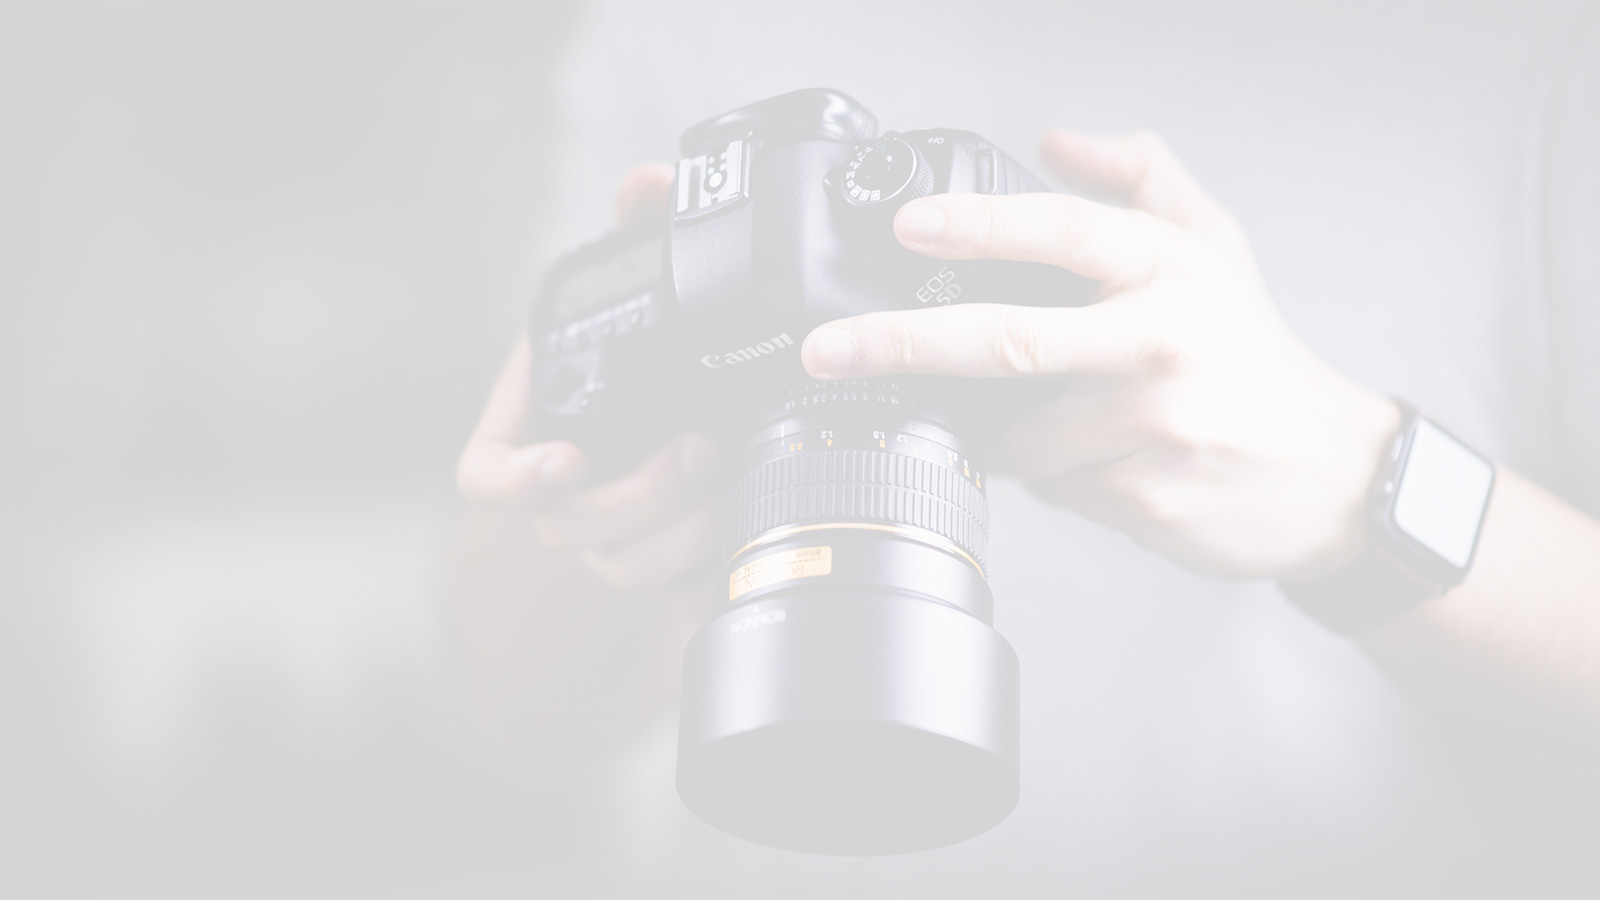
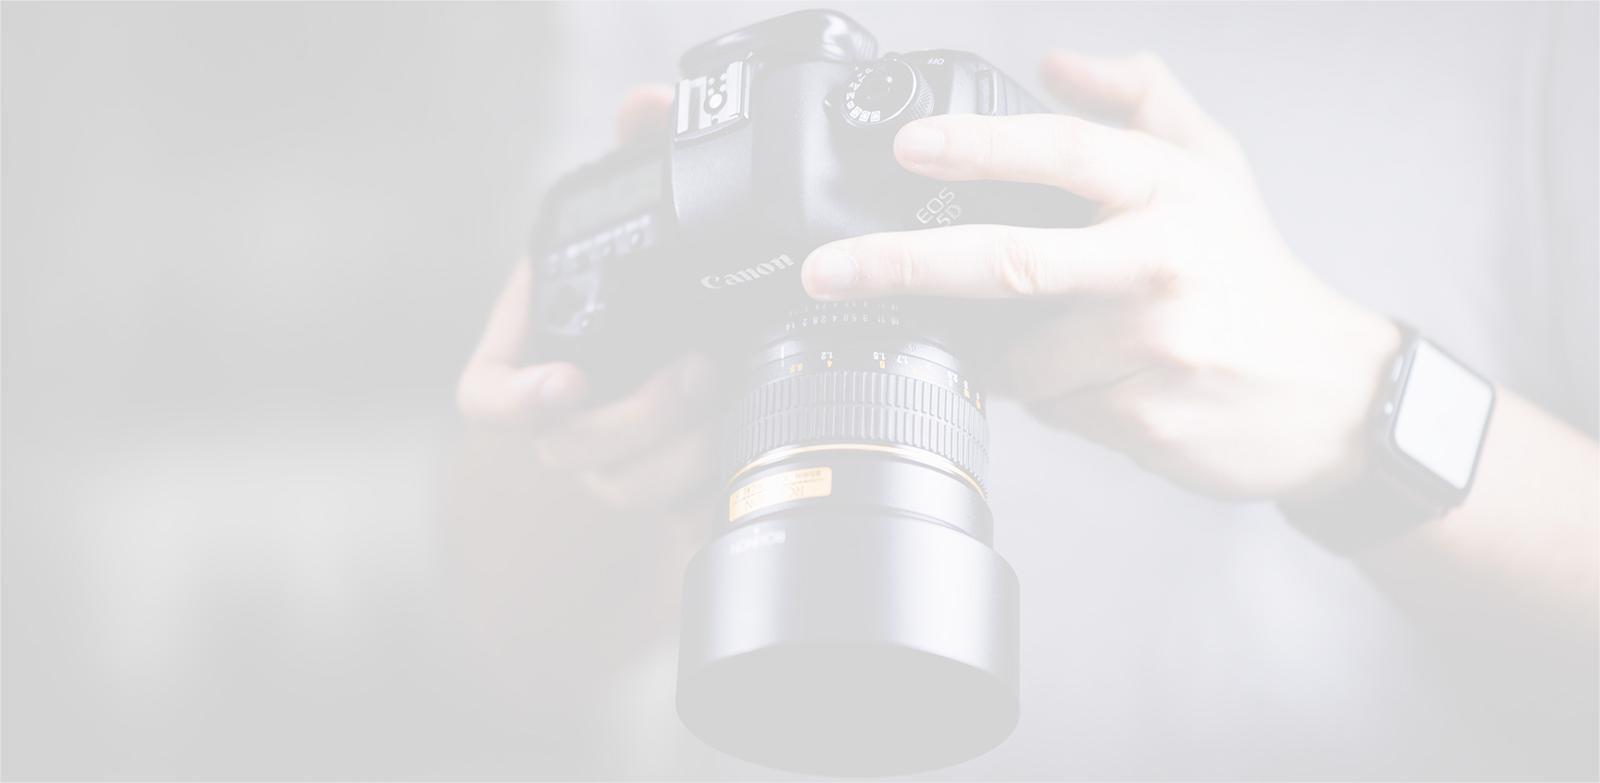
.

diff --git a/main.html b/main.html
@@ -17,6 +17,15 @@
                 <img src="image/logo.png" alt="logo">
             </a>
         </div>
+           
+         &nbsp;&nbsp;&nbsp;&nbsp;&nbsp;&nbsp;&nbsp;&nbsp;&nbsp;
+        
+        <div id="title">
+            <h2>LIGHT STUDIO</h2> <br>
+            <p>Photographie</p>
+        </div>
+
+        
         &nbsp;&nbsp;&nbsp;&nbsp;&nbsp;&nbsp;&nbsp;&nbsp;&nbsp;&nbsp;&nbsp;&nbsp;&nbsp;&nbsp;&nbsp;&nbsp;
         &nbsp;&nbsp;&nbsp;&nbsp;&nbsp;&nbsp;&nbsp;&nbsp;&nbsp;&nbsp;&nbsp;&nbsp;&nbsp;&nbsp;&nbsp;&nbsp;
         &nbsp;&nbsp;&nbsp;&nbsp;&nbsp;&nbsp;&nbsp;&nbsp;&nbsp;&nbsp;&nbsp;&nbsp;&nbsp;&nbsp;&nbsp;&nbsp;
@@ -27,37 +36,44 @@
         &nbsp;&nbsp;&nbsp;&nbsp;&nbsp;&nbsp;&nbsp;&nbsp;&nbsp;&nbsp;&nbsp;&nbsp;&nbsp;&nbsp;&nbsp;&nbsp;
         &nbsp;&nbsp;&nbsp;&nbsp;&nbsp;&nbsp;&nbsp;&nbsp;&nbsp;&nbsp;&nbsp;&nbsp;&nbsp;&nbsp;&nbsp;&nbsp;
         &nbsp;&nbsp;&nbsp;&nbsp;&nbsp;&nbsp;&nbsp;&nbsp;&nbsp;&nbsp;&nbsp;&nbsp;&nbsp;&nbsp;&nbsp;&nbsp;
-        &nbsp;&nbsp;&nbsp;&nbsp;&nbsp;&nbsp;&nbsp;&nbsp;&nbsp;&nbsp;&nbsp;&nbsp;&nbsp;&nbsp;&nbsp;&nbsp;
-        &nbsp;&nbsp;&nbsp;&nbsp;&nbsp;&nbsp;&nbsp;&nbsp;&nbsp;&nbsp;&nbsp;&nbsp;&nbsp;&nbsp;&nbsp;&nbsp;
+        
+
+        
         <div id="nav_bar">
             <script>
                 function openPopup(page) {
                 window.open(page, "popupWindow", "width=377,height=500,left=450,top=200");
                     }
-</script>
+                </script>
             <nav>
                     <a href="#section1part2"><span>Acceuil  </span></a> &nbsp;&nbsp;&nbsp;&nbsp;
                     <a href="#Portfolio_container_section"><span>Portfolio  </span></a> &nbsp;&nbsp;&nbsp;&nbsp;
-                    <a href="#services"><span>Services  </span></a> &nbsp;&nbsp;&nbsp;&nbsp;
+                    <a href="#h1"><span>Services  </span></a> &nbsp;&nbsp;&nbsp;&nbsp;
                     <a href="#" onclick="openPopup('contact.html')"><span>Contact  </span></a> &nbsp;&nbsp;&nbsp;&nbsp;
             </nav>
         </div>
     <a href="#footer" class="down-arrow">⬇</a>
-
+        &nbsp;&nbsp;&nbsp;&nbsp;&nbsp;&nbsp;&nbsp;
 
     </header>
-    <!--section 1-->
+    <!--section 1--> 
+    
     <section class="section1">
         <div id="accueil1">
+            <!--
             <h1 id="h1css"> LIGHT STUDIO </h1>
             <P id="photogr1">Photographie</P>
+            -->
         </div>
+
     </section>
+
+    
 
     <section id="section1part2">
         <div id="aboutStudio">
             <h2>
-                SUR <br> NOTRE <br> STUDIO
+               <br> SUR <br> NOTRE <br> STUDIO
             </h2>
             <p>
                 Bienvenue dans notre studio de photographie,
@@ -79,8 +95,8 @@
 
     <!--section 2-->
     <section id="Portfolio_container_section">
-        <h2>Portfolio:</h2>
-        <P id="port_p">We don’t shoot images, We eternalize moments, Check it out!!</P>
+        <h2><br>Portfolio:</h2>
+        <h3 id="port_p">We don’t shoot images, We eternalize moments, Check it out!!</h3>
         <div class='photo-grid-container'>
             <div class='photo-grid'>
 
@@ -115,33 +131,31 @@
                 </div>
             </div>
         </div>
-      
-
     </section>
 
     <!--section 3-->
 
    <section id="h1">
         <h2>Services:</h2>
-        </section>
+    </section>
      <section id="services">
         <div id="shooting">
     <img src="image/photographer shooting.jpg" alt="Shooting">
-       <h2>Shooting</h2>
+       <h3>Shooting</h3>
 <p>Light Studio propose des séances photo personnalisées adaptées aux besoins de chacun, 
     que ce soit pour des portraits, des photos de mode, de produits ou du contenu créatif. 
     L’accent est mis sur la mise en valeur du sujet à travers un éclairage maîtrisé et une composition soignée </p>
     </div>
      <div id="Mariages">
     <img src="image/mariage 2.0.jpg" alt="Mariages">
-      <h2>Mariages</h2>
+      <h3>Mariages</h3>
 <p>Le studio assure la couverture complète des mariages, en immortalisant chaque instant  
     important avec naturel et élégance. Des préparatifs à la cérémonie, 
     chaque moment est capturé pour créer des souvenirs authentiques et intemporels.</p> 
     </div>
     <div id="Evenements">
     <img src="image/fest.jpg" alt="Evenements">
-        <h2>Evénements</h2>
+        <h3>Evénements</h3>
     <p>Pour les événements privés ou professionnels, le studio offre un service de photographie 
     dynamique et discret. Conférences, fêtes, lancements ou célébrations, chaque moment clé est documenté 
     avec précision pour restituer l’ambiance et mettre en valeur l’événement.</p>

diff --git a/style.css b/style.css
@@ -2,17 +2,28 @@
 .section1 #accueil1 {
     background-image: url("image/accueil.jpg");
     width: 100%;
-    height: 1000PX;
+    height: 780PX;
     font-size: 2em;
     font-family: cursive;
-
+    text-align: left;
+    /* filter: brightness(70%) grayscale(50%);*/
 }
 
+#title *{
+    float: left;
+    margin-top: 0px;
+    margin-bottom: 0px;
+    align-items: center;
+    display: flex;
+    justify-content: center;
+}
+/*
 #h1css {
-    /* text-align: center;*/
+     text-align: center;
     padding-left: 300px;
+    padding-top: 0px;
 
-}
+} */
 
 #photogr1 {
     padding-left: 500px;
@@ -34,12 +45,12 @@
     padding: 0px;
     margin: 0px;
 
-    font-size: 25px;
+    font-size: 23px;
     padding-left: 40px;
     padding-right: 40px;
     padding-bottom: 10px;
     padding-top: 0px;
-      color: gray;
+    color: gray;
     font-family: cursive;
     background-color: rgb(242, 245, 247);
 }
@@ -64,15 +75,13 @@
     padding-right: 40px;
     padding-bottom: 10px;
     padding-top: 10px;
-
-
-
 }
 
+/*
 .section1 img {
-    width: 50%;
-    height: 50%;
-}
+    width: 100%;
+    height: 100%;
+} */
 
 
 #services{
@@ -146,9 +155,11 @@ header {
     display: flex;
     position: sticky;
     top: 0;
+    bottom: 0;
     justify-content: center;
     background-color: rgb(215, 213, 213);
     height: 70px;
+    
 }
 
 footer{
@@ -166,14 +177,16 @@ footer{
     height: 50px;
 }
 
+
 #nav_bar nav{
     float: right;
-    top: 0;
-    right: 0;
     margin-right: 0;
     font-family: cursive;
     font-size: 1.5em;
     font-style: italic;
+    align-items: center;
+    display: flex;
+    justify-content: center;
 }
 
 header a{
